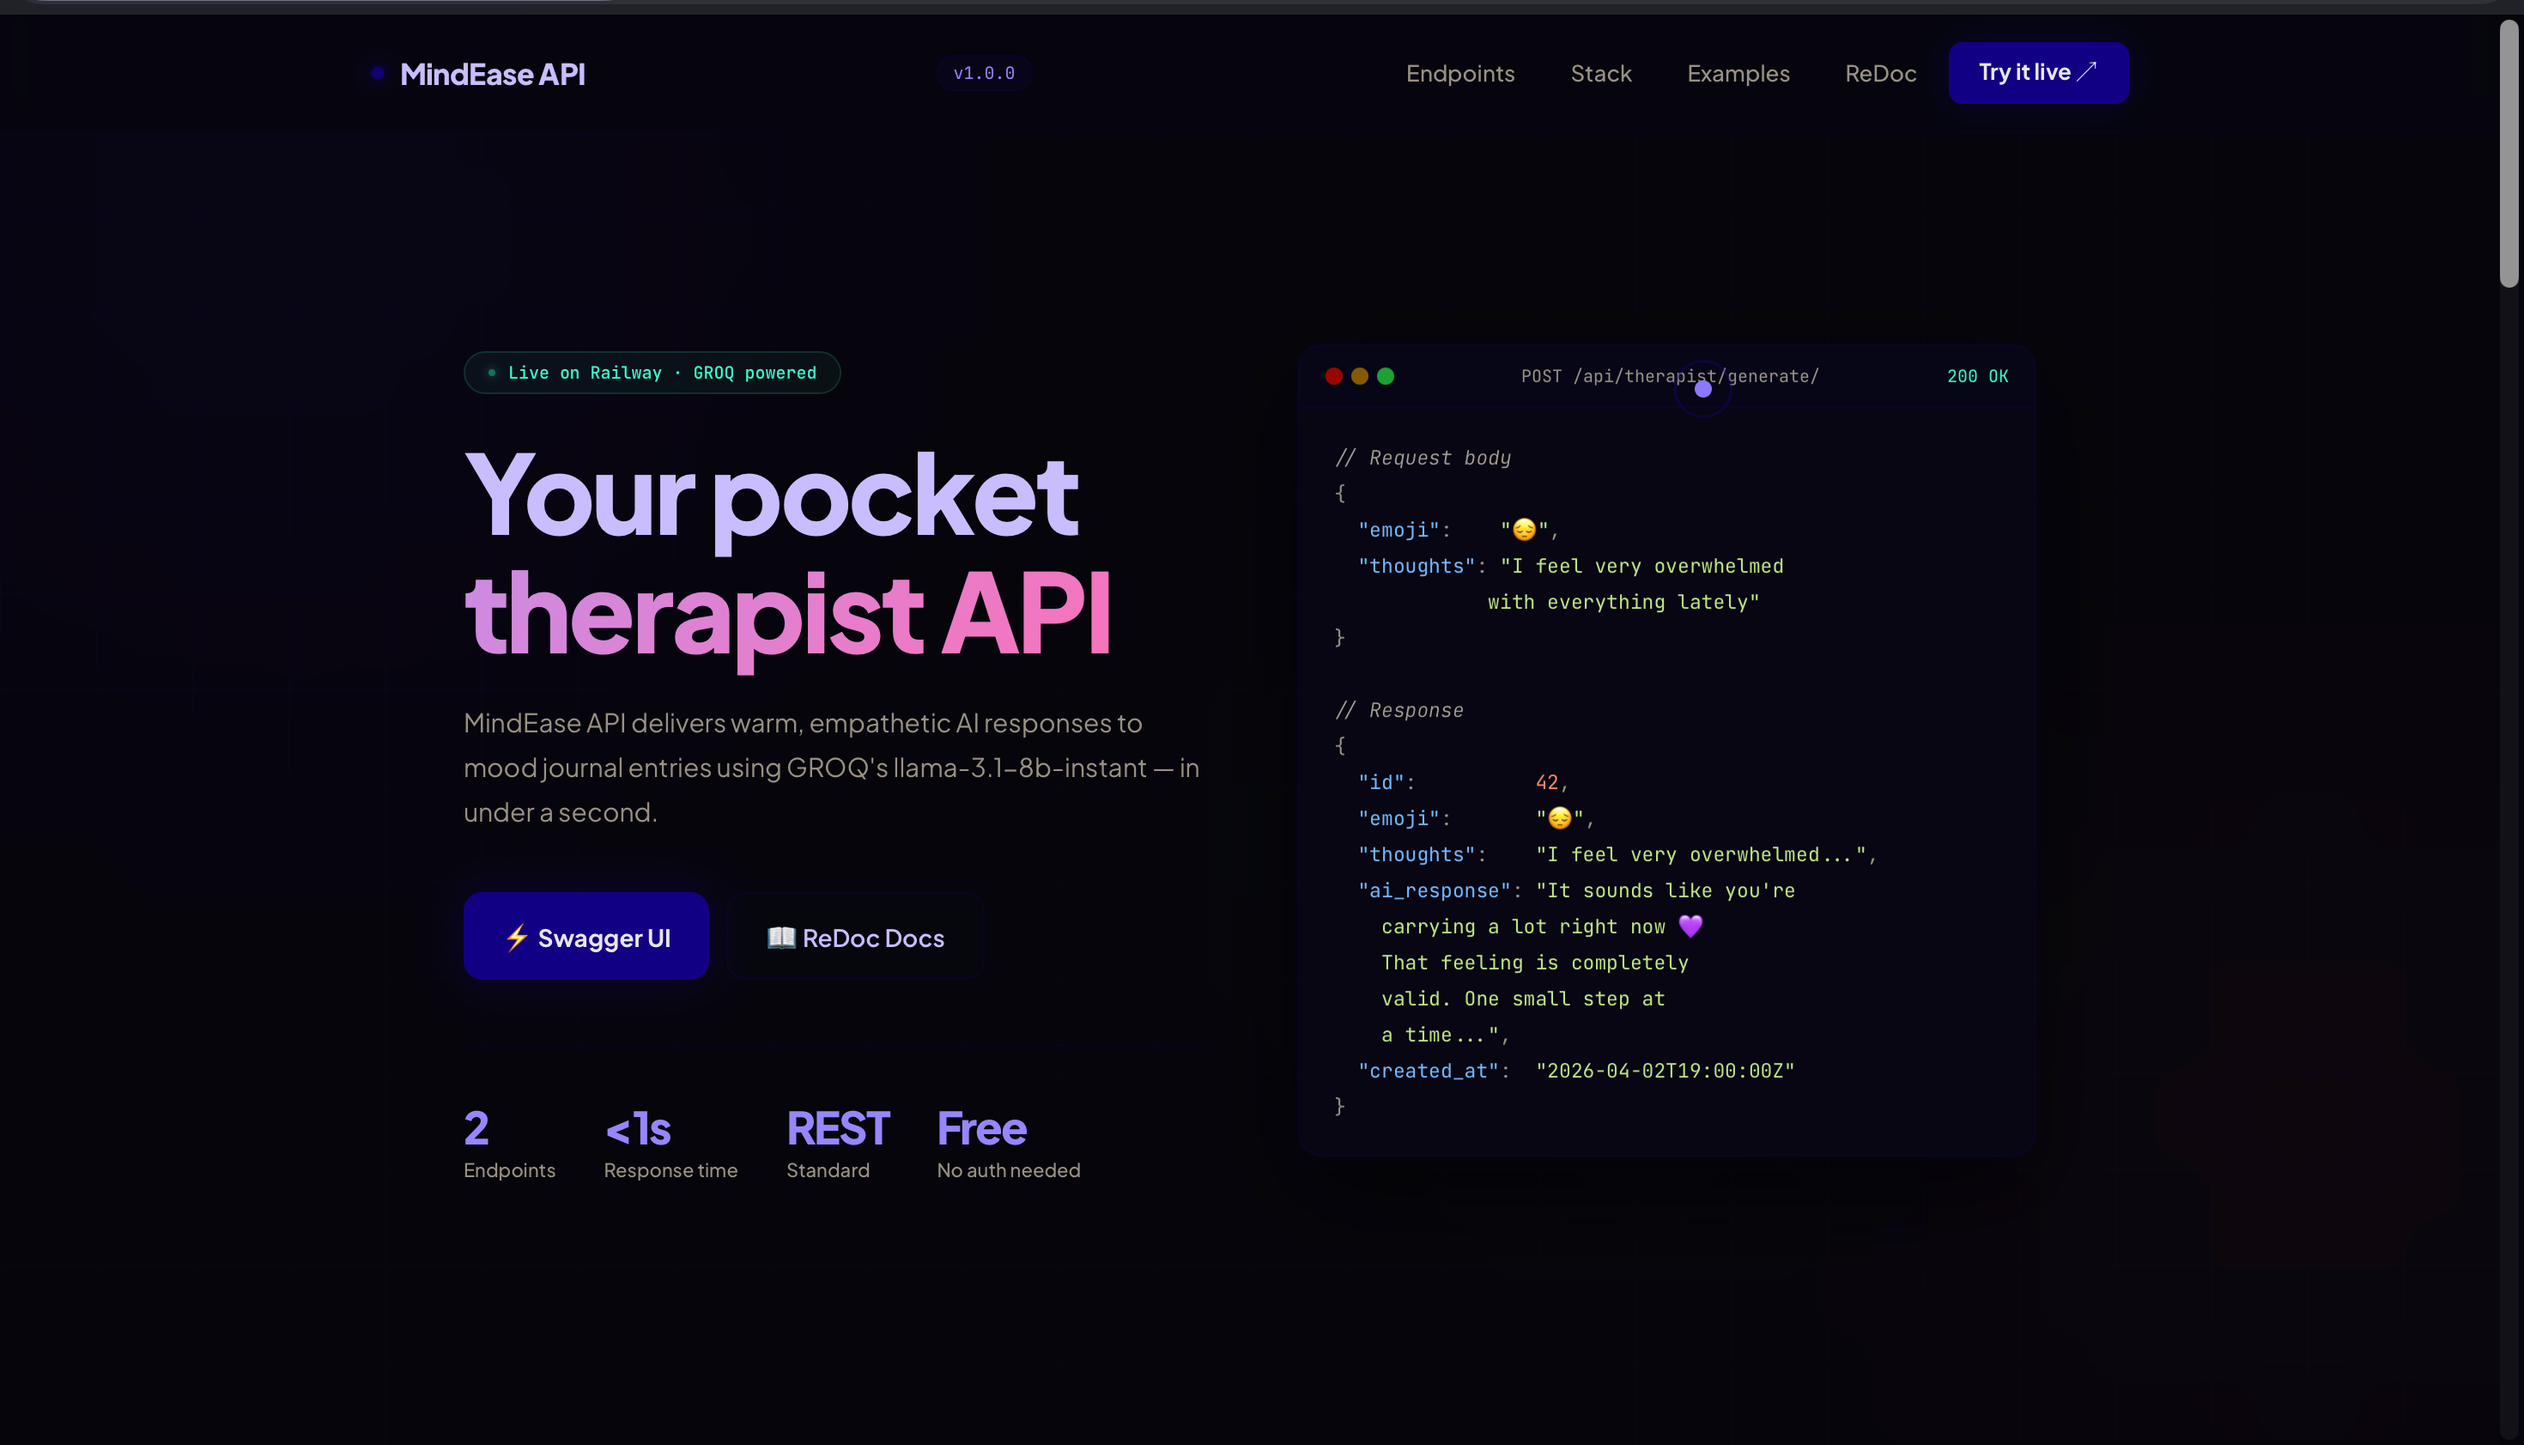
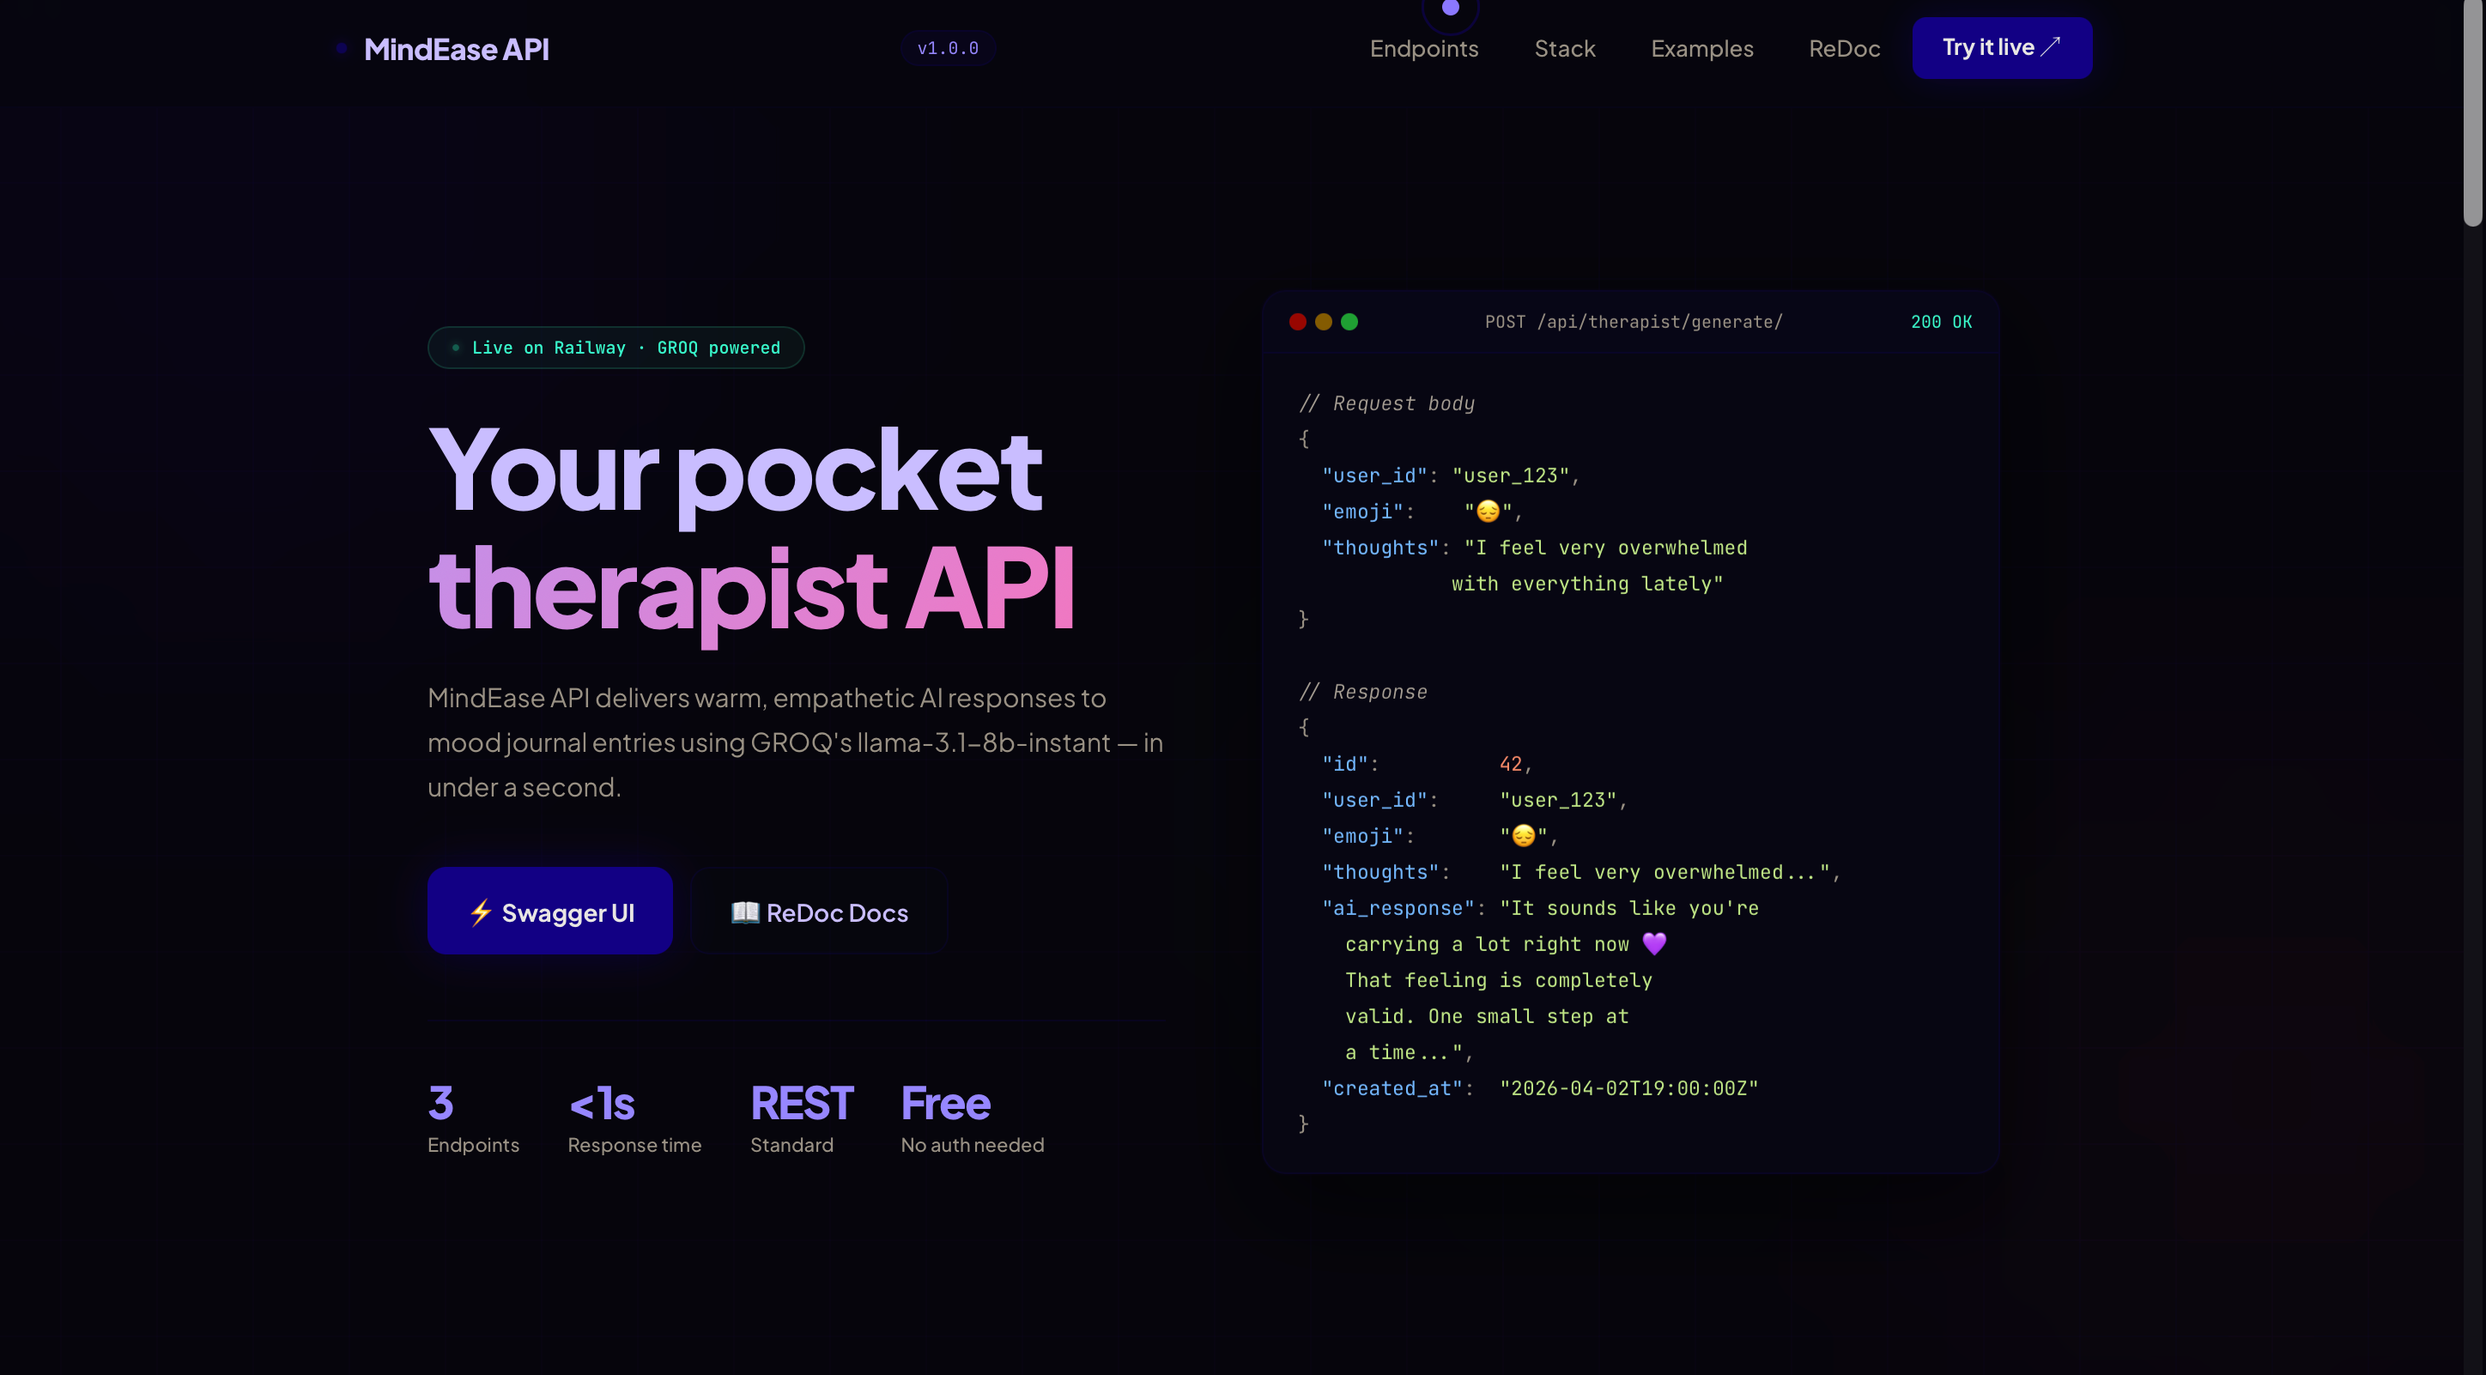
add assets/projects/demos/ai_therapist_api.gif add assets/projects/demos/ai_therapist_api.png

diff --git a/js/projects-data.js b/js/projects-data.js
@@ -142,21 +142,22 @@ const projectsData = [
       id: 7,
       title: "MindEase — AI Therapist API",
       category: "Web Development",
-      shortDesc: "A Django REST Framework backend powering an AI therapist app, integrating GROQ's LLaMA model for mood-based mental wellness responses.",
-      fullDesc: "Built the backend for MindEase, an AI therapist mood journal app. The API accepts user mood inputs (emoji + thoughts) and returns empathetic AI-generated responses via GROQ's llama-3.1-8b-instant model. Features JWT authentication, mood history tracking, and is deployed live on Railway. Consumed by a Flutter mobile app built with Clean Architecture, BLoC, and Hive for offline-first caching.",
-      tags: ["Django", "Django REST Framework", "Python", "GROQ API", "LLaMA", "Railway", "JWT"],
+      shortDesc: "A no-auth Django REST API powering an AI therapist mood journal — sub-second empathetic responses via GROQ's LLaMA 3.1, with persistent history and weekly wellness letters.",
+      fullDesc: "MindEase is a mental wellness REST API built with Django REST Framework. Users submit mood entries (emoji + thoughts) and instantly receive warm, personalized AI responses from Luna — powered by GROQ's llama-3.1-8b-instant model on LPU infrastructure. No authentication required. The API persists all journal entries with ISO 8601 timestamps, generates weekly wellness summary letters with mood statistics, and ships with interactive Swagger and ReDoc documentation. Deployed live on Railway with auto-deploy from GitHub.",
+      tags: ["Django", "Django REST Framework", "Python", "GROQ API", "LLaMA 3.1", "Railway", "OpenAPI", "Swagger"],
       image: "assets/projects/demos/ai_therapist_api.png",
       coverImage: "assets/projects/demos/ai_therapist_api.png",
       gifDemo: "assets/projects/demos/ai_therapist_api.gif",
-      demoUrl: "#",
+      demoUrl: "https://web-production-f8628.up.railway.app/#examples",
       githubUrl: "https://github.com/Riyam224/ai_therapist_backend.git",
       features: [
-         "AI-generated therapy responses via GROQ LLaMA 3.1",
+         "AI-generated empathetic responses via GROQ LLaMA 3.1 (sub-second)",
          "Mood input: emoji + free-text thoughts",
-         "Full mood history with timestamps",
-         "JWT authentication",
-         "Deployed on Railway with live endpoints",
-         "Consumed by Flutter app with Clean Architecture"
+         "Persistent mood journal history with ISO 8601 timestamps",
+         "Weekly wellness letter with mood statistics and personalized insights",
+         "No authentication required — open REST API",
+         "Interactive Swagger UI and ReDoc documentation",
+         "Deployed on Railway with auto-deploy from GitHub"
       ],
       year: "2026",
       role: "Full Stack Developer"
